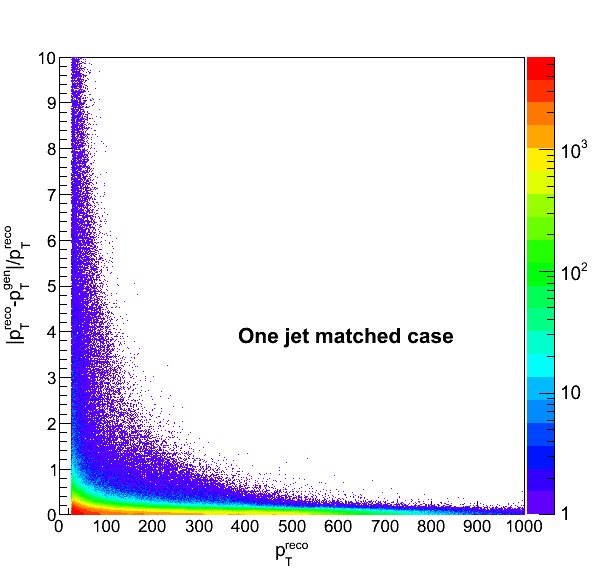
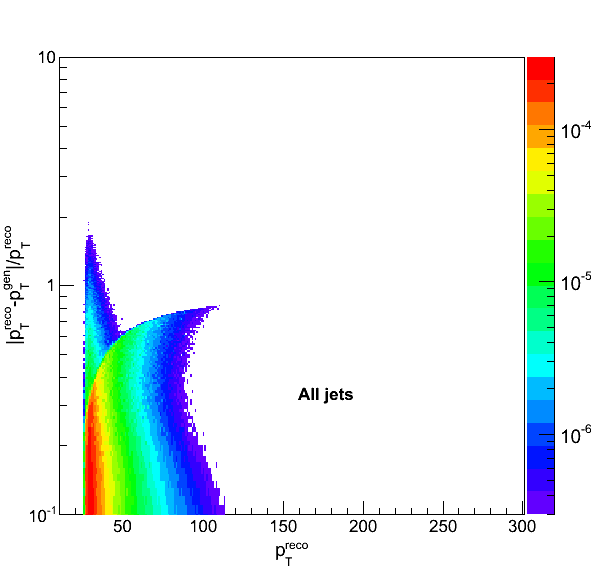
jet matching id

diff --git a/jetRpA/RpA/NewMC/JetID/Drawselfmatch.C b/jetRpA/RpA/NewMC/JetID/Drawselfmatch.C
@@ -6,9 +6,11 @@ void Drawselfmatch(){
 	gStyle->SetErrorX(0);
 	TH1D* hNmatched = (TH1D*)fMCPPb->Get("hNmatched");
 	TH1D* hdeltaR = (TH1D*)fMCPPb->Get("hdeltaR");
+	TH2F* hptdeltaptfrc = (TH2F*)fMCPPb->Get("hptdeltaptfrc");
 	TH2F* hptdeltaptfrcmatch1 = (TH2F*)fMCPPb->Get("hptdeltaptfrcmatch1");
 	TH2F* hptdeltaptfrcmatch20 = (TH2F*)fMCPPb->Get("hptdeltaptfrcmatch20");
 	TH2F* hptdeltaptfrcmatch21 = (TH2F*)fMCPPb->Get("hptdeltaptfrcmatch21");
+	TH2F* hptgenpt = (TH2F*)fMCPPb->Get("hptgenpt");
 	TH2F* hptgenptmatch1 = (TH2F*)fMCPPb->Get("hptgenptmatch1");
 	TH2F* hptgenptmatch20 = (TH2F*)fMCPPb->Get("hptgenptmatch20");
 	TH2F* hptgenptmatch21 = (TH2F*)fMCPPb->Get("hptgenptmatch21");
@@ -17,9 +19,13 @@ void Drawselfmatch(){
 	TCanvas *c2 = new TCanvas("c2","c2",600,600);
 	TCanvas *c3 = new TCanvas("c3","c3",600,600);
 	TCanvas *c4 = new TCanvas("c4","c4",600,600);
+	TCanvas *c5 = new TCanvas("c5","c5",1200,600);
+	TCanvas *c6 = new TCanvas("c6","c6",600,600);
+	TCanvas *c7 = new TCanvas("c7","c7",600,600);
+	TCanvas *c8 = new TCanvas("c8","c8",1200,600);
 	TLatex tl;
 	tl.SetNDC();
-	tl.SetTextSize(0.04);
+	tl.SetTextSize(0.032);
 	c1->cd()->SetLogy();
 	hFrame = new TH1D("hFrame","hFrame",1000,0,1000);
 	hFrame->SetTitle("");
@@ -48,48 +54,79 @@ void Drawselfmatch(){
 	l->SetLineStyle(2);
 	l->Draw("same");	
 	c3->cd()->SetLogz();
+	c3->cd()->SetLogy();
 	c3->SetRightMargin(0.12);
 	hFrame2 = new TH2F("hFrame2","hFrame2",1000,0,1000,100,0.,10.);
 	fixedFontHist(hFrame2,1.2,1.3);
 	hFrame2->SetTitle("");
 	hFrame2->GetXaxis()->SetTitle("p^{reco}_{T}");
 	hFrame2->GetYaxis()->SetTitle("|p^{reco}_{T}-p^{gen}_{T}|/p^{reco}_{T}");
-	hFrame2->GetXaxis()->SetRangeUser(0,1000);
+	hFrame2->GetXaxis()->SetRangeUser(10,300);
 	hFrame2->GetYaxis()->SetRangeUser(0,10);
 	hFrame2->DrawCopy();
-	tl.DrawLatex(0.4,0.4,"One jet matched case");
+	tl.DrawLatex(0.4,0.6,"One jet matched case");
 
 	hptdeltaptfrcmatch1->Draw("colz same");
+	
 	c4->cd()->SetLogz();
 	c4->SetRightMargin(0.12);
-	hFrame3 = new TH2F("hFrame3","hFrame3",1000,0,1000,100,0.,1000.);
-	fixedFontHist(hFrame2,1.2,1.3);
+	hFrame3 = new TH2F("hFrame3","hFrame3",1000,0,1000,1000,0.,1000.);
+	fixedFontHist(hFrame3,1.2,1.3);
 	hFrame3->SetTitle("");
 	hFrame3->GetXaxis()->SetTitle("p^{reco}_{T}");
 	hFrame3->GetYaxis()->SetTitle("p^{gen}_{T}");
-	hFrame3->GetXaxis()->SetRangeUser(0,1000);
-	hFrame3->GetYaxis()->SetRangeUser(0,1000);
+	hFrame3->GetXaxis()->SetRangeUser(10,300);
+	hFrame3->GetYaxis()->SetRangeUser(10,300);
 	hFrame3->DrawCopy();
+	hptgenptmatch1->Draw("colz same");
 	tl.DrawLatex(0.5,0.3,"One jet matched case");
 
-	hptgenptmatch1->Draw("colz same");
-	/*
-	c5->cd()->SetLogz();
-	c5->SetRightMargin(0.12);
-	hFrame4 = new TH1D("hFrame4","hFrame4",1000,0,1000);
-	fixedFontHist(hFrame2,1.2,1.3);
-	hFrame4->SetTitle("");
-	hFrame4->GetXaxis()->SetTitle("p^{reco}_{T}");
-	hFrame4->GetYaxis()->SetTitle("cross section");
-	hFrame4->GetXaxis()->SetRangeUser(0,1000);
-	hFrame4->GetYaxis()->SetRangeUser(1e-9,1e-2);
-	hFrame4->DrawCopy();
+	c5->Divide(2,1);
+	c5->cd(1)->SetLogz();
+	c5->cd(1)->SetRightMargin(0.12);
+	hFrame3->DrawCopy();
+	tl.DrawLatex(0.45,0.2,"Two jet matched, first");
+	hptgenptmatch20->Draw("colz same");
+	c5->cd(2)->SetLogz();
+	c5->cd(2)->SetRightMargin(0.12);
+	hFrame3->DrawCopy();
+	hptgenptmatch21->Draw("colz same");
+	tl.DrawLatex(0.25,0.7,"Two jet matched, second");
 
-	jetpt_fake->Draw("colz same");
-*/
+	c6->cd()->SetLogz();
+	c6->cd()->SetLogy();
+	c6->cd()->SetRightMargin(0.12);
+	hFrame2->DrawCopy();
+	hptdeltaptfrc->Draw("colz same");
+	tl.DrawLatex(0.5,0.3,"All jets");
+
+	c7->cd()->SetLogz();
+	c7->SetRightMargin(0.12);
+	hFrame3->DrawCopy();
+	hptgenpt->Draw("colz same");
+	tl.DrawLatex(0.5,0.3,"All jets");
+
+	c8->Divide(2,1);
+	c8->cd(1)->SetLogz();
+	c8->cd(1)->SetLogy();
+	c8->cd(1)->SetRightMargin(0.12);
+	hFrame2->DrawCopy();
+	tl.DrawLatex(0.45,0.2,"Two jet matched, first");
+	hptdeltaptfrcmatch20->Draw("colz same");
+	c8->cd(2)->SetLogz();
+	c8->cd(2)->SetLogy();
+	c8->cd(2)->SetRightMargin(0.12);
+	hFrame2->DrawCopy();
+	hptdeltaptfrcmatch21->Draw("colz same");
+	tl.DrawLatex(0.25,0.7,"Two jet matched, second");
+
 	c1->Print("pic/hNmatched.png");
 	c2->Print("pic/hdeltaR.png");
-	c3->Print("pic/ptvsdeltaptfraction.png");
-	c4->Print("pic/ptvsgenpt.png");
+	c3->Print("pic/ptvsdeltaptfraction1.png");
+	c4->Print("pic/ptvsgenpt1.png");
+	c5->Print("pic/ptvsgenpt2.png");
+	c6->Print("pic/ptvsdeltaptfraction.png");
+	c7->Print("pic/ptvsgenpt.png");
+	c8->Print("pic/ptvsdeltaptfraction2.png");
 }
 
